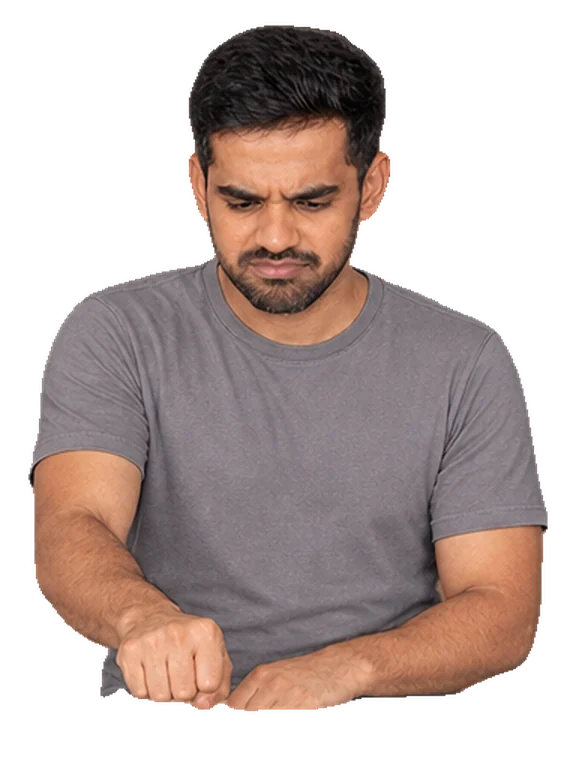
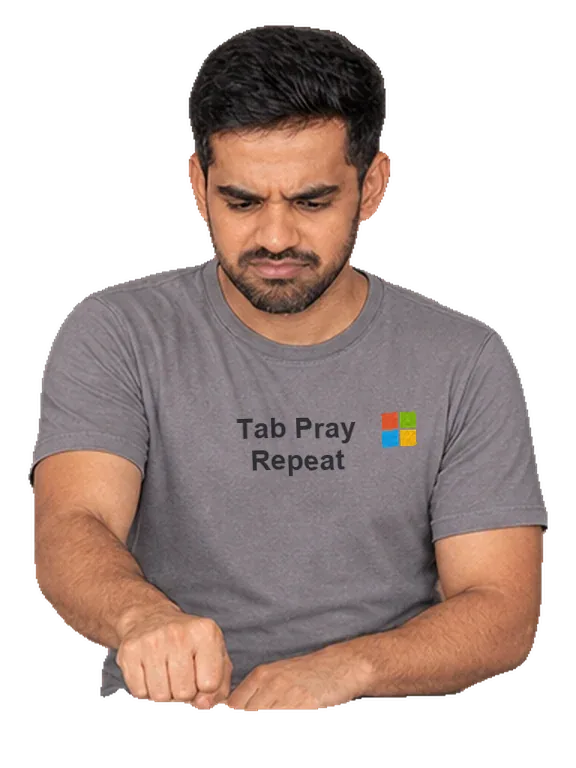
Fit Microsoft and quote prints to portrait shirt fabric

Changed region(s): [[0.4062, 0.5312, 0.625, 0.625], [0.6562, 0.5312, 0.75, 0.5938]]

diff --git a/src/components/homepage/OfficeArtwork.tsx b/src/components/homepage/OfficeArtwork.tsx
@@ -353,27 +353,6 @@ const characterPoses = [
 ] as const;
 export type OfficeCharacterPose = (typeof characterPoses)[number];
 
-const shirtOcclusions: Record<OfficeCharacterPose, string> = {
-  tab: "",
-  think:
-    "M502 286L553 282L563 308L538 338L517 384L495 425L469 447L445 428L459 386L483 338Z",
-  frustration: "",
-  angry: "",
-  pray: "M533 306L557 306L566 342L576 377L595 402L577 427L549 405L526 423L505 402L523 374L531 342Z",
-  happy: "",
-  celebrate: "",
-};
-
-const shirtTransforms: Record<OfficeCharacterPose, string> = {
-  tab: "translate(558 385) rotate(-2) skewX(-3)",
-  think: "translate(564 392) rotate(3) skewX(-3)",
-  frustration: "translate(565 389) rotate(5) skewX(-3)",
-  angry: "translate(558 374) rotate(-2) skewX(-3)",
-  pray: "translate(557 383) rotate(-1) skewX(-3)",
-  happy: "translate(551 390) rotate(1) skewX(-3)",
-  celebrate: "translate(557 377) rotate(-2) skewX(-3)",
-};
-
 export function OfficeCharacter({
   pose,
 }: {
@@ -404,22 +383,6 @@ export function OfficeCharacter({
             )}
           </clipPath>
         ))}
-        {characterPoses.map((item) => (
-          <mask
-            key={item}
-            id={`office-shirt-${item}`}
-            maskUnits="userSpaceOnUse"
-            x="360"
-            y="82"
-            width="384"
-            height="512"
-          >
-            <rect x="480" y="345" width="135" height="100" fill="white" />
-            {shirtOcclusions[item] && (
-              <path d={shirtOcclusions[item]} fill="black" stroke="none" />
-            )}
-          </mask>
-        ))}
       </defs>
       <g data-character-part="portrait">
         {characterPoses.map((item) => (
@@ -438,40 +401,8 @@ export function OfficeCharacter({
               width="384"
               height="512"
             />
-            <g
-              className={styles.shirtPrint}
-              mask={`url(#office-shirt-${item})`}
-            >
-              <text
-                transform={shirtTransforms[item]}
-                data-office-shirt-quote
-                textAnchor="middle"
-                fontFamily="Arial, sans-serif"
-                fontSize="20"
-                fontWeight="900"
-                fill="var(--office-shirt-print)"
-                fillOpacity="0.7"
-                stroke="none"
-              >
-                <tspan x="0">Tab Pray</tspan>
-                <tspan x="0" dy="23">
-                  Repeat
-                </tspan>
-              </text>
-            </g>
           </g>
         ))}
-        <g
-          transform="translate(625 362)"
-          data-office-brand="microsoft"
-          stroke="none"
-        >
-          <rect width="42" height="42" rx="4" fill="var(--office-paper)" />
-          <rect x="5" y="5" width="15" height="15" fill="#f25022" />
-          <rect x="22" y="5" width="15" height="15" fill="#7fba00" />
-          <rect x="5" y="22" width="15" height="15" fill="#00a4ef" />
-          <rect x="22" y="22" width="15" height="15" fill="#ffb900" />
-        </g>
       </g>
     </svg>
   );

diff --git a/src/components/homepage/DeveloperDesk.module.scss b/src/components/homepage/DeveloperDesk.module.scss
@@ -75,10 +75,6 @@
   transition: opacity 180ms ease-in-out;
 }
 
-.shirtPrint {
-  mix-blend-mode: multiply;
-}
-
 .employerLink {
   position: absolute;
   min-width: 44px;
@@ -96,8 +92,8 @@
 }
 
 .employerLink {
-  top: 47.875%;
-  left: 53.833333%;
+  top: 47.25%;
+  left: 52.25%;
   width: 3.5%;
   height: 5.25%;
   transform: translate(-50%, -50%);

diff --git a/README.md b/README.md
@@ -184,16 +184,17 @@ motion leaves a still keyboard pose and disables object reactions.
 The animation button is disabled and labeled "Motion reduced" in this mode.
 The head and body have no tooltip or invisible click targets.
 The "Tab Pray Repeat" quote remains printed on the shirt.
-The smaller chest lettering has pose-specific placement and follows the shirt's
-angle, blends with its fabric shading, and is masked behind the thinking and
-prayer hands. Each photo and its print share one opacity layer, so they crossfade
-together rather than leaving stationary text above the moving body on mobile.
+The smaller chest lettering and four-color Microsoft mark are composited into
+each portrait WebP with pose-specific placement, fabric shading, and hand
+occlusion. There are no floating text or logo overlays, or white badge backgrounds.
+Both prints crossfade with the photograph and retain the same appearance in
+light and dark themes.
 The office illustration remains visible in full rather than becoming a photo
 card. Material gradients on the wall, desk, and laptop, softer outlines, and
 subtle object shadows bring the illustrated room closer to the shaded portrait.
 Reduced motion disables pose transitions, the key press, and object animations;
 keyboard focus outlines remain visible.
-The portrait wears a four-color Microsoft logo patch and the AI-coding quote
+The portrait wears a four-color Microsoft chest print and the AI-coding quote
 in all seven poses.
 Clicking the logo opens the [LinkedIn profile](https://in.linkedin.com/in/sajeetharan);
 the link is keyboard-accessible and has a minimum 44px target.
